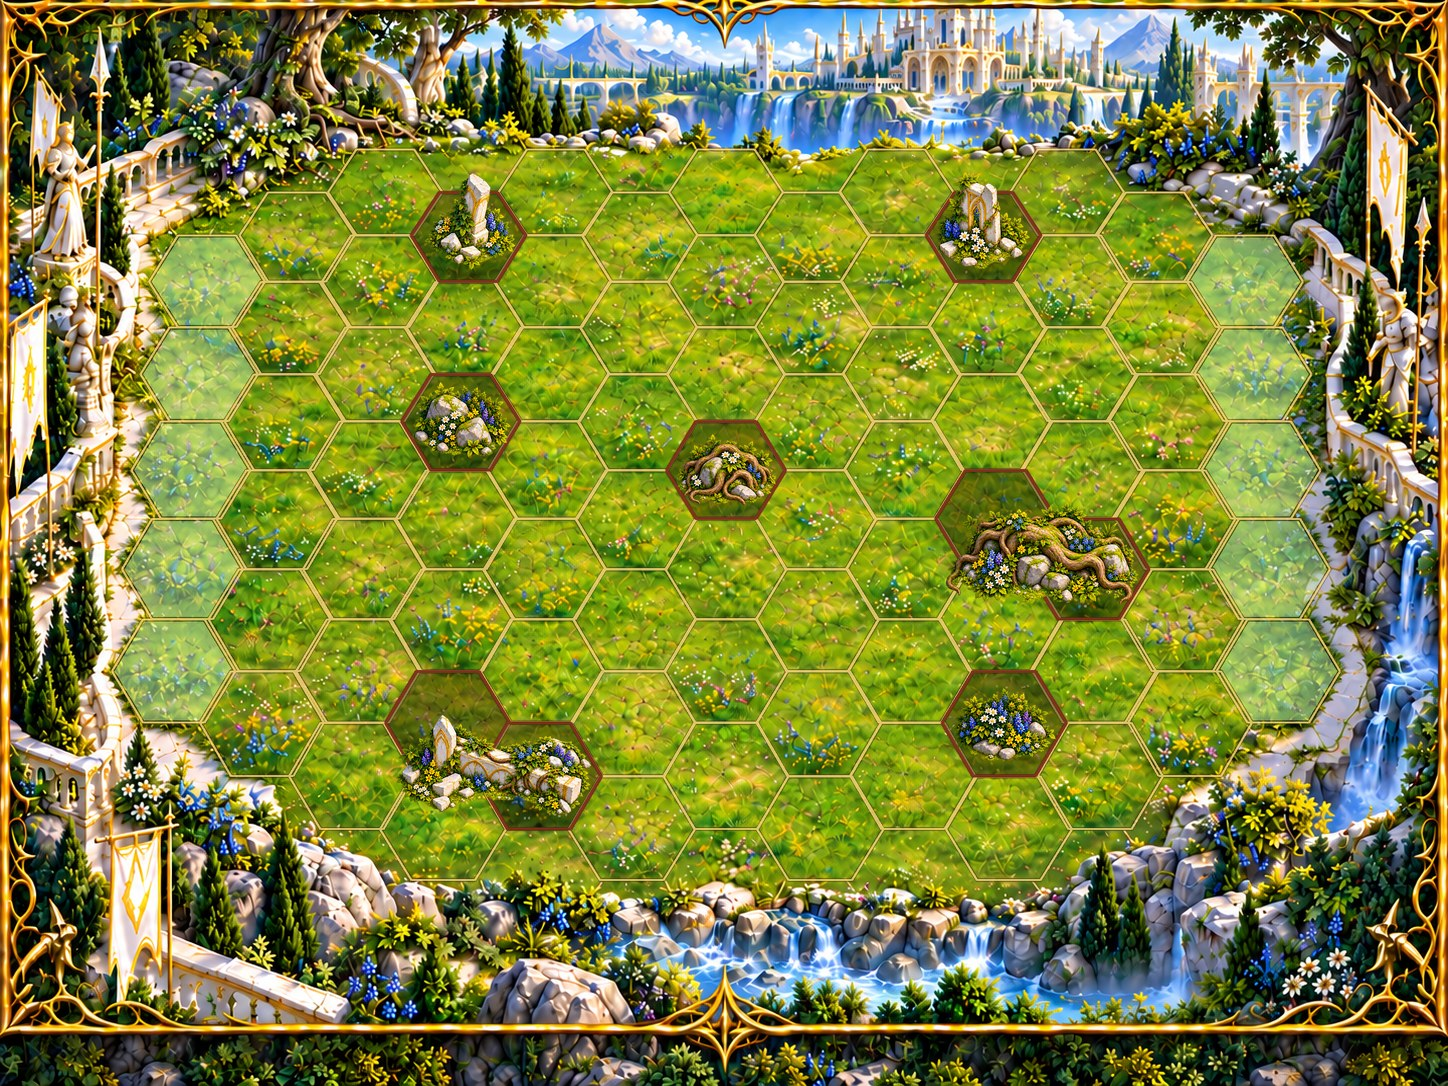
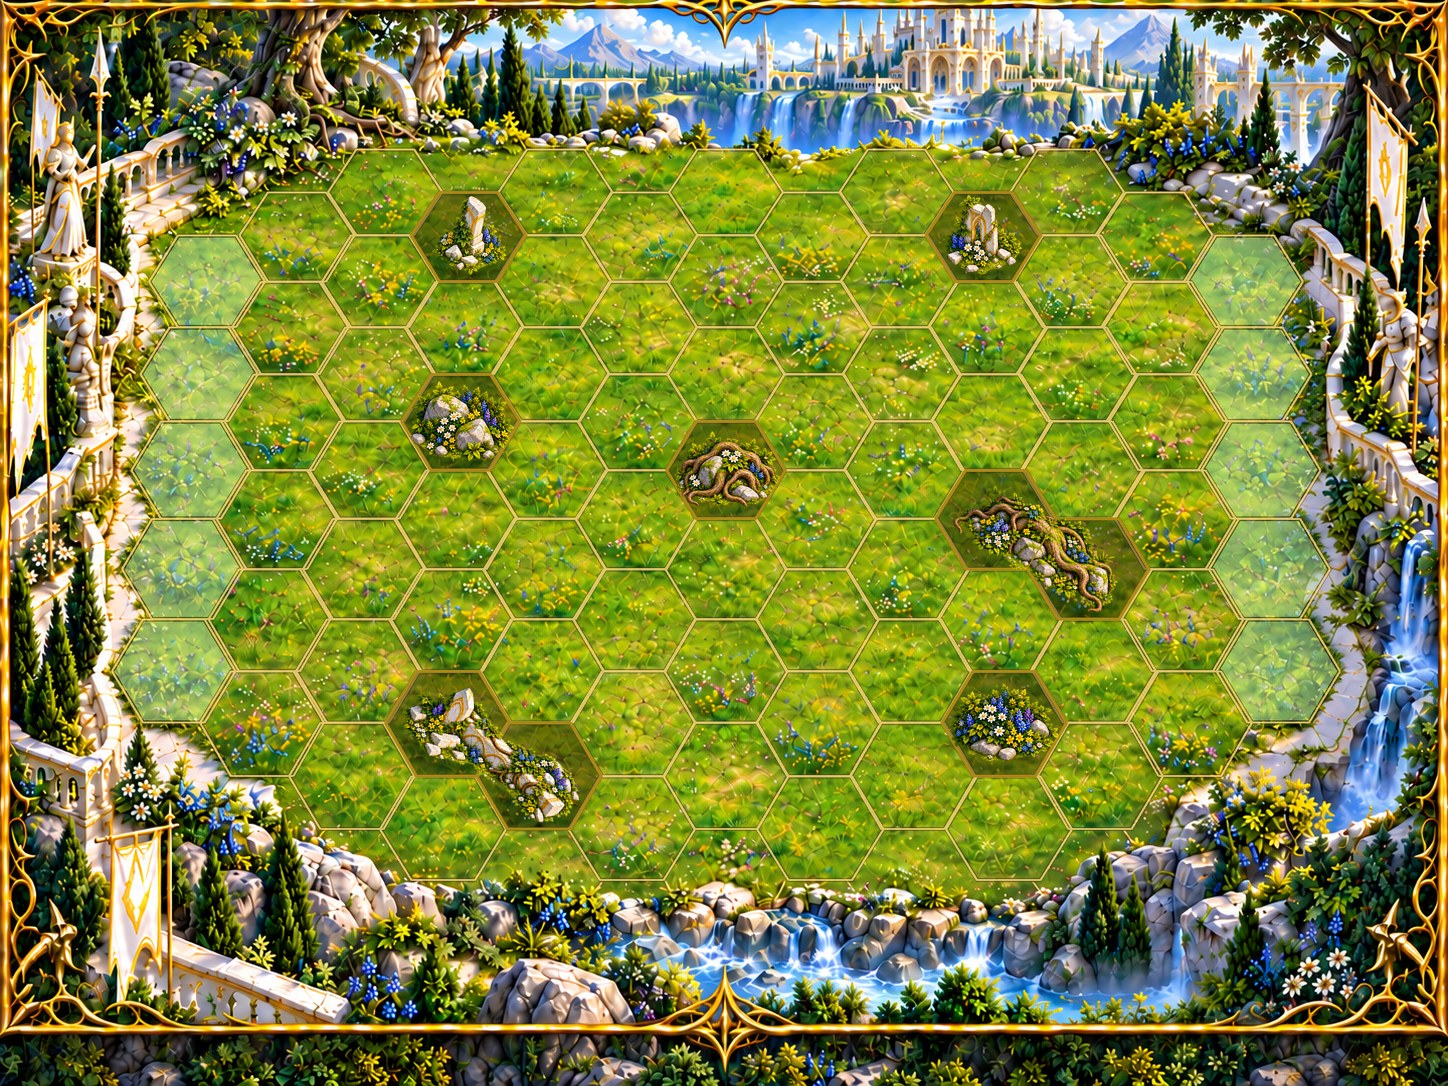
Arenas: obstacle sprites stay inside their own cells (fitted to the hex, two-cell ones turned along their cells, cut at the cell edges); obstacle rims dark yellow on both boards

diff --git a/src/ui/ArenaBoard.tsx b/src/ui/ArenaBoard.tsx
@@ -70,6 +70,9 @@ interface Props {
   onUnit: (u: BattleUnit) => void;
 }
 
+/** Rim of the blocked cells on both arenas (scripts/assets/arenas.py paints the same one). */
+const OBSTACLE_RIM = '#A88414';
+
 export function ArenaBoard(p: Props) {
   const { state, view, scale, anim, deploy, targeting, hover, setHover, active, moves, hops, targets, approach } = p;
   const b = state.battle!;
@@ -86,10 +89,9 @@ export function ArenaBoard(p: Props) {
           <svg width={CANVAS_W} height={CANVAS_H} style={{ position: 'absolute', left: 0, top: 0 }}>
             <g pointerEvents="none">
               <GoldGrid />
-              {/* Obstacles get their own rim: dark red on the green Dawn board (as painted there), violet on the
-                  Horde's lava, where red would not show. */}
+              {/* Obstacles get their own rim: dark yellow on both boards (as painted there). */}
               {b.obstacles.map((k) => (
-                <polygon key={`ob${k}`} points={hexPoints(k, 1.5)} fill="none" stroke={b.arena === 'horde' ? '#B07AE8' : '#8E2C1A'} strokeWidth="3.2" strokeLinejoin="round" />
+                <polygon key={`ob${k}`} points={hexPoints(k, 1.5)} fill="none" stroke={OBSTACLE_RIM} strokeWidth="3.2" strokeLinejoin="round" />
               ))}
             </g>
             {CELLS.map((k) => {

diff --git a/scripts/assets/arenas.py b/scripts/assets/arenas.py
@@ -6,13 +6,14 @@ Sources (docs/grafika/areny/):
 
 The grid is the one the game uses (src/ui/arenaGeometry.ts, src/engine/battle.ts), so cells,
 obstacles and the board line up. Each sheet holds 7 obstacle sprites, one per obstacle
-(the two widest span the 2-cell obstacles), fitted over a darkened, outlined base, so it is clear
-which cells are blocked.
+(the two widest span the 2-cell obstacles, turned along them), fitted over a darkened, outlined base
+and cut off at the edges of their own cells, so it is clear which cells are blocked.
 Usage: python3 scripts/assets/arenas.py [przymierze] [horda]   (default: both)
 """
 import os
 import sys
-from PIL import Image, ImageDraw, ImageOps
+import math
+from PIL import Image, ImageChops, ImageDraw, ImageOps
 
 ROOT = os.path.dirname(os.path.dirname(os.path.dirname(os.path.abspath(__file__))))
 SRC = os.path.join(ROOT, 'docs', 'grafika', 'areny')
@@ -94,23 +95,38 @@ def sprites(sheet):
 
 
 BLOCK_FILL = {'dawn': (25, 15, 5, 105), 'horde': (10, 5, 0, 150)}
-BLOCK_LINE = {'dawn': (120, 40, 25, 235), 'horde': (255, 150, 60, 235)}
+# Dark yellow on both boards (the game draws the same rim over it, ArenaBoard.tsx).
+BLOCK_LINE = (168, 132, 20, 235)
 
 
 def fit(board, sprite, piece):
-    """Fits a sprite over its cells (one hex, or two neighbouring ones): as wide as they allow,
-    rising at most a little above them."""
-    xs = [center(*c)[0] for c in piece]
-    r = spacing(center(*piece[0])[1]) * 2 / 3
-    top = min(HALF_Y[h - 1] for _, h in piece)
-    bottom = max(HALF_Y[h + 1] for _, h in piece)
+    """Puts a sprite on its cells and keeps it inside them: on one hex it fills the cell, on two
+    neighbouring hexes it is turned along the line between them and stretched to cover both.
+    Whatever still sticks out is cut off at the cells' edges, so no sprite reaches a free cell."""
+    centres = [center(*c) for c in piece]
+    r = spacing(centres[0][1]) * 2 / 3
     one = HALF_Y[piece[0][1] + 1] - HALF_Y[piece[0][1] - 1]
-    max_w = max(xs) - min(xs) + 2 * r * 0.86
-    max_h = (bottom - top) if len(piece) > 1 else one * 1.12
-    k = min(max_w / sprite.width, max_h / sprite.height)
-    s = sprite.resize((round(sprite.width * k), round(sprite.height * k)), Image.LANCZOS)
-    base = bottom - one * 0.12
-    board.alpha_composite(s, (round((min(xs) + max(xs)) / 2 - s.width / 2), round(base - s.height)))
+    cx = sum(x for x, _ in centres) / len(centres)
+    cy = sum(y for _, y in centres) / len(centres)
+    if len(piece) == 1:
+        k = min(2 * r * 0.92 / sprite.width, one * 0.92 / sprite.height)
+        s = sprite.resize((round(sprite.width * k), round(sprite.height * k)), Image.LANCZOS)
+    else:
+        (x0, y0), (x1, y1) = centres
+        length = math.hypot(x1 - x0, y1 - y0) + 2 * r * 0.8
+        # Stretched lengthwise a little at most (a wider sprite reads as a longer obstacle, not a squashed one).
+        k = min(length / sprite.width, one * 0.8 / sprite.height)
+        s = sprite.resize((round(min(length, sprite.width * k * 1.25)), round(sprite.height * k)), Image.LANCZOS)
+        s = s.rotate(-math.degrees(math.atan2(y1 - y0, x1 - x0)), resample=Image.BICUBIC, expand=True)
+    layer = Image.new('RGBA', board.size)
+    layer.alpha_composite(s, (round(cx - s.width / 2), round(cy - s.height / 2)))
+    mask = Image.new('L', (board.width * SS, board.height * SS))
+    draw = ImageDraw.Draw(mask)
+    for c in piece:
+        draw.polygon([(x * SS, y * SS) for x, y in hexagon(*c)], fill=255)
+    mask = mask.resize(board.size, Image.LANCZOS)
+    layer.putalpha(ImageChops.multiply(layer.getchannel('A'), mask))
+    board.alpha_composite(layer)
 
 
 def build(src):
@@ -145,7 +161,7 @@ def build(src):
     for c in OBSTACLES[arena]:
         pts = [(x * SS, y * SS) for x, y in hexagon(*c)]
         draw.polygon(pts, fill=BLOCK_FILL[arena])
-        draw.line(pts + [pts[0]], fill=BLOCK_LINE[arena], width=3 * SS, joint='curve')
+        draw.line(pts + [pts[0]], fill=BLOCK_LINE, width=3 * SS, joint='curve')
     board.alpha_composite(layer.resize(board.size, Image.LANCZOS))
     sheet = Image.open(os.path.join(SRC, f'arena_walki_{src}_przeszkody.png')).convert('RGBA')
     # The two widest sprites go on the 2-cell obstacles, the others on single cells.

diff --git a/CHANGELOG.md b/CHANGELOG.md
@@ -6,6 +6,7 @@ Każdy wpis to jeden commit, a skrót commita stoi w nawiasie na końcu wpisu (c
 
 ## W przygotowaniu
 
+- Areny: przeszkody nie wchodzą już na sąsiednie pola (podwójne są obrócone wzdłuż swoich dwóch pól), a ich obwódka jest ciemnożółta na obu arenach.
 - Figurki 3D nie mają już kolorowej poświaty — tylko aktywna figurka ma cienką żółtą obwódkę wokół podstawki.
 - Instrukcja, rozdział 1: krople obrażeń są dwustronne (6 × „1” / „2”, 10 × „3” / „5”), a znaczników Żywotności i Ochrony jest po jednym — tyle, ile naprawdę może być potrzebne w jednej bitwie. Róg Odwagi oznacza się dwoma znacznikami Wzmocnienia Ataku.
 - Instrukcja: figurki są pokazane jako rzuty modeli 3D z gry, każda podpisana, a strażnicy na osobnej stronie. Narzędzia: `make figurki` robi te rzuty od nowa.
@@ -28,7 +29,6 @@ Każdy wpis to jeden commit, a skrót commita stoi w nawiasie na końcu wpisu (c
 - Zapis partii w trybie Arena jest w menu opisany jako „Arena”, a nie „Rywalizacja”.
 - Esc zamyka każde okno (także czat, „Dla testerów”, „Od Twojej ostatniej tury” i znaleziony skarb), a skróty literowe nie działają, gdy jakieś okno jest otwarte.
 - Figurki na mapie i na arenie są większe (mogą lekko wchodzić na sąsiednie pola), a zamiast jednolitych pierścieni otacza je delikatna, rozmyta poświata w kolorze strony.
-- Arena Hordy: przeszkody terenowe mają fioletowe obramowanie, więc odróżniają się od zwykłych pól (na arenie Przymierza — ciemnoczerwone, jak dotąd).
 - Bitwa: przycisk „Zasięg wrogów” zastępuje Ctrl — przytrzymany nad dowolną jednostką pokazuje, dokąd może dojść (niebieskie pola) i kogo dosięgnie (czerwone).
 - Figurka obok karty bohatera w menu nie miga już przy szybkim przełączaniu bohaterów, a menu nie tworzy przy tym coraz to nowych płócien 3D.
 - Bitwa przy szybkich botach: animacje ataków już się nie zacinają — figurka robi wypad przy każdym ataku, a liczby obrażeń i ślady ciosów znikają jak trzeba. Na telefonie arena nie przewija się po każdym trafieniu, tylko gdy zmienia się aktywna jednostka.

diff --git a/docs/BACKLOG.md b/docs/BACKLOG.md
@@ -8,13 +8,6 @@ porządki w kodzie (etapy 0–4 i resztki), wersja mobilna, zgłoszenia z 23.10 
 
 Szacunki kosztu to tokeny zużyte przez Claude w jednej sesji. Każdy punkt to osobny commit.
 
-- [ ] **1.2. Przeszkody na arenach nie wychodzą poza swoje pole.** *Koszt: ok. 50–90 tys.* Przykład błędu:
-  `/home/maciek/Obrazy/blad_przeszkody.png` — rysunek przeszkody (kamienie, kwiaty) nachodzi na sąsiednie
-  sześciokąty. Obie areny, Przymierza i Hordy (`docs/grafika/areny/*_przeszkody.png`, `scripts/assets/arenas.py`,
-  `ARENA_OBSTACLES`). Przeszkody można obrócić, wydłużyć, zmniejszyć — byle każda mieściła się w swoim polu.
-  Sprawdzić zrzutem całej areny (desktop i telefon).
-- [ ] **1.3. Obwódki przeszkód: ciemnożółte na obu arenach.** *Koszt: ok. 10–20 tys.* Dziś ciemnoczerwone
-  (Przymierze) i fioletowe (Horda); jeden kolor dla obu. Najlepiej razem z 1.2 (te same zrzuty).
 - [ ] **1.4. Wolniejszy obrót figurek i ruch w dwóch fazach.** *Koszt: ok. 30–50 tys.* Tempo przesuwania
   zostaje. Obrót wolniejszy, a najpierw obrót, potem przesuwanie — nigdy oba naraz (`FigureLayer.tsx`: `turnTo`,
   `turnStart`, `moveStart`). Dotyczy też zwrotu do celu przed atakiem. Sprawdzić, czy dłuższa animacja nie
